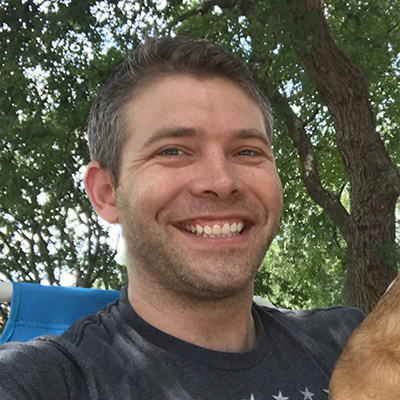
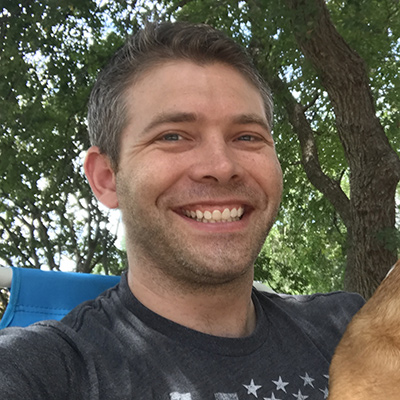
Add Adam's headshot & removing placeholder role from other Fellows
Fellows who hadn’t provided roles previously had the word “Role” as
placeholder text. The placeholder text is now “Fellow”.

diff --git a/_people/michael-henderson.md b/_people/michael-henderson.md
@@ -1,6 +1,6 @@
 ---
 name: Michael Henderson
-discipline: [Role]
+discipline: Fellow
 start_date: 2017-06-12
 bio: |
   I’m excited to build community on behalf of all residents in Austin. Working with the Fellows aligns with my core values of education, empathy, entrepreneurship, and empowerment. How can we use our tech skill sets to move forward in City services?

diff --git a/_people/ainee-athar.md b/_people/ainee-athar.md
@@ -1,6 +1,6 @@
 ---
 name: Ainee Athar
-discipline: [Role]
+discipline: Fellow
 start_date: 2017-08-07
 bio: |
   Technology and design are critical to make sure we have a responsive, equitable, and transparent city government. I joined the Office because as our city faces escalating challenges, a culture of innovation is essential to find meaningful solutions.

diff --git a/_people/taylor-cook.md b/_people/taylor-cook.md
@@ -1,6 +1,6 @@
 ---
 name: Taylor Cook
-discipline: [Role]
+discipline: Fellow
 start_date: 2017-07-23
 bio: |
   I became a Fellow because I enjoy tackling big problems and working with motivated and creative people. I want to help Austin prove that it is possible for the public sector to be a positive force in people’s lives.
